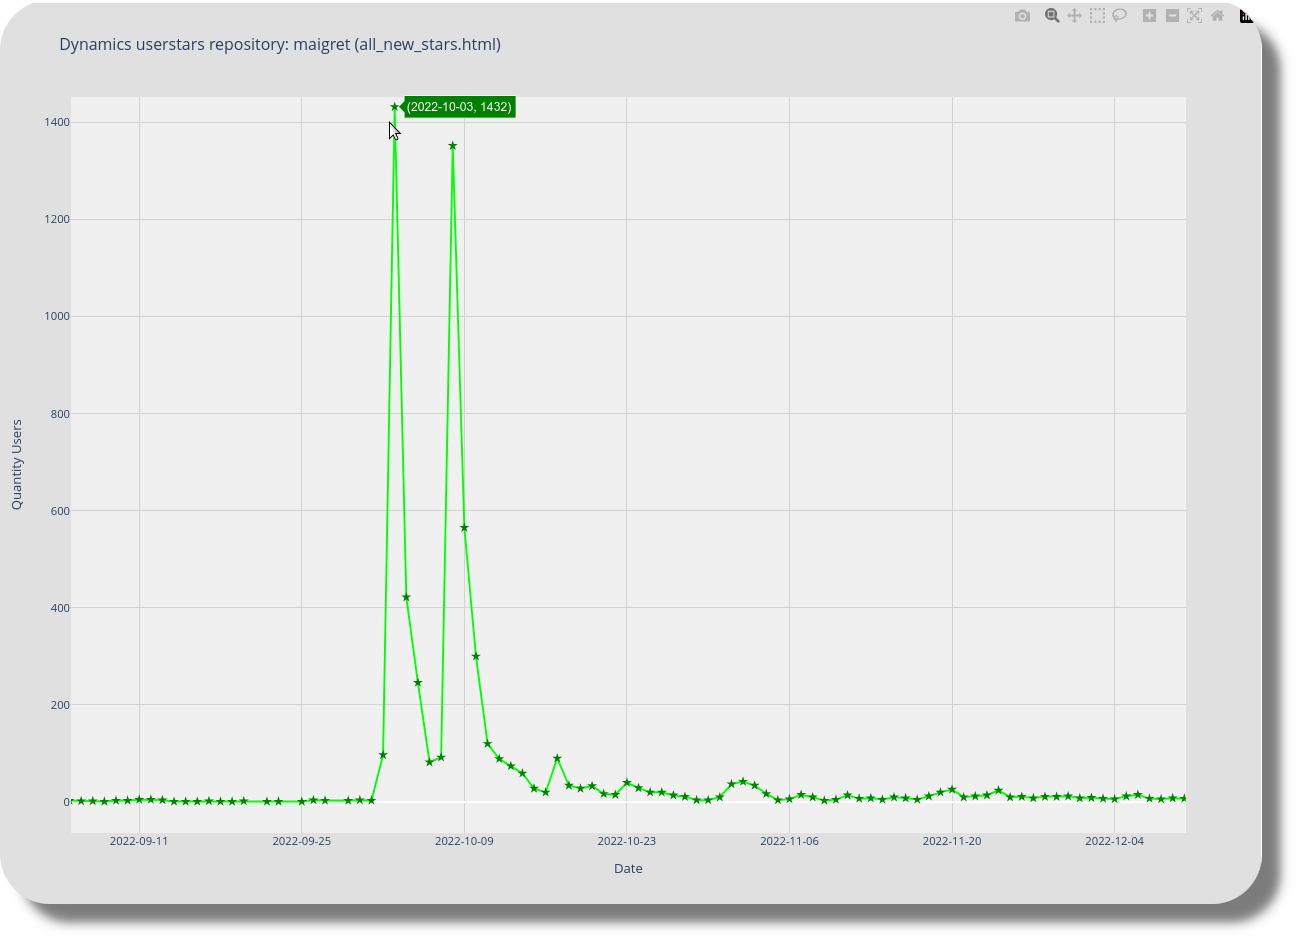
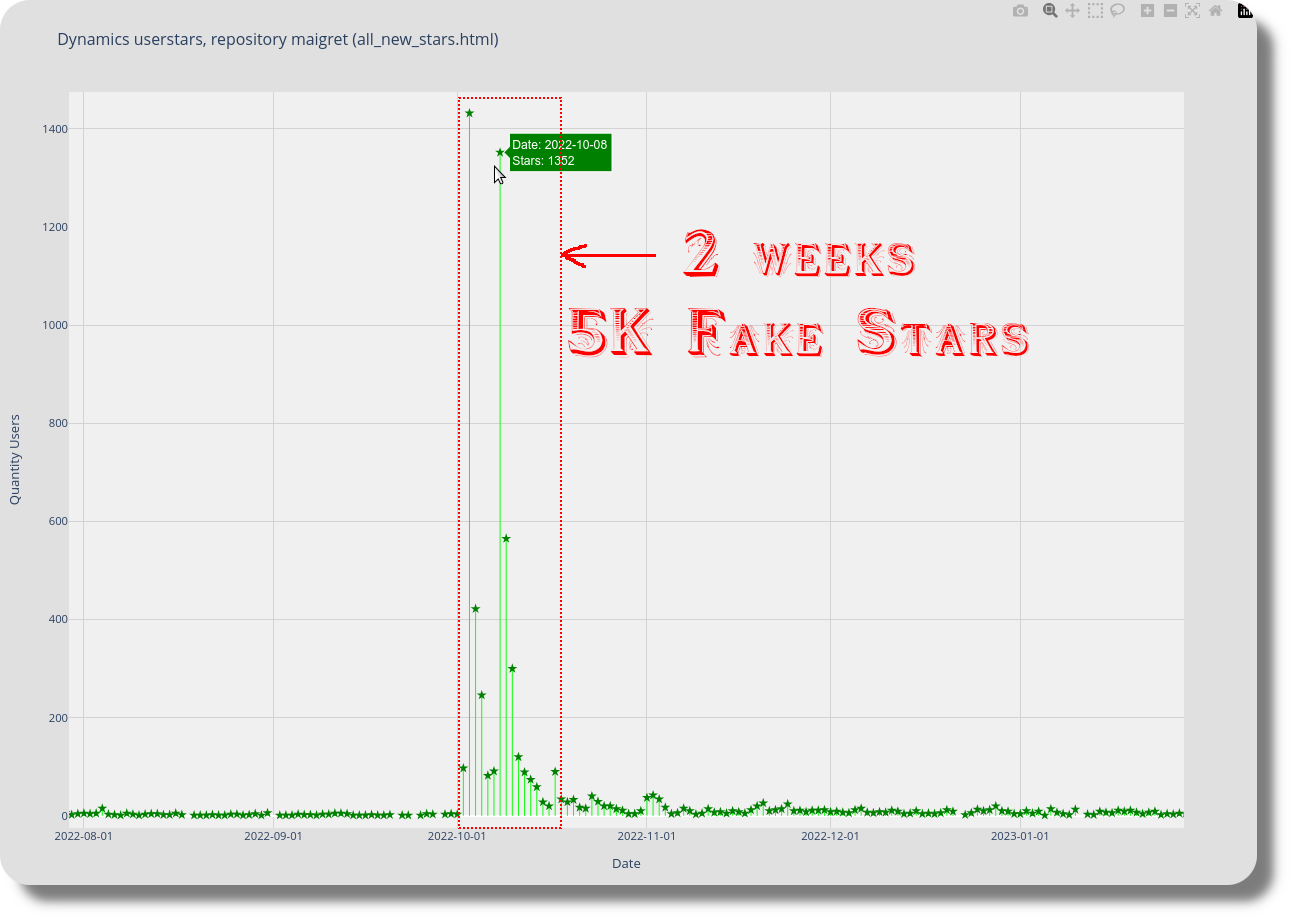
v3.1
See changelog.

diff --git a/shotstars/shotstars.py b/shotstars/shotstars.py
@@ -38,7 +38,7 @@ console.print(r"""[yellow]
 / ___|| |__   ___ | |_  / ___|| |_ __ _ _ __ ___
 \___ \| '_ \ / _ \| __| \___ \| __/ _` | '__/ __|
  ___) | | | | (_) | |_   ___) | || (_| | |  \__ \
-|____/|_| |_|\___/ \__| |____/ \__\__,_|_|  |___/[/yellow]  v3.0, author: https://github.com/snooppr
+|____/|_| |_|\___/ \__| |____/ \__\__,_|_|  |___/[/yellow]  v3.1, author: https://github.com/snooppr
 """)
 
 
@@ -217,17 +217,22 @@ def generate_plots(aggregated_data, source_filename):
             plt_cli.ticks_color('yellow')
 
             if base_filename == 'all_new_stars.html':
-                plt_cli.title("NEW_STARS (real parsing)")
+                plt_cli.title(f"NEW_STARS, '{repo}' (real parsing)")
                 plt_cli.canvas_color('black')
                 plt_cli.axes_color('green')
             elif base_filename == 'all_gone_stars.html':
-                plt_cli.title("GONE_STARS (calculation by algorithms)")
+                plt_cli.title(f"GONE_STARS, '{repo}' (calculations)")
                 plt_cli.canvas_color('black')
                 plt_cli.axes_color('red')
 
             plt_cli.xticks(dates_for_plot)
-            plt_cli.plot(dates_for_plot, counts_for_plot, marker='*')
+            plt_cli.yticks(range(0, max(counts_for_plot) + 1))
+
+            for i in range(len(dates_for_plot)):
+                plt_cli.plot([dates_for_plot[i], dates_for_plot[i]], [0, counts_for_plot[i]], marker='*', color='blue+')
+
             plt_cli.show()
+
             print("\n")
         except Exception:
             console.print(f"[bold red]CLI Graph for {source_filename} — not created[/bold red]")
@@ -246,11 +251,14 @@ def generate_plots(aggregated_data, source_filename):
             line_color = 'red'
             marker_color = '#a73c3c'
 
-        fig.add_trace(plt_html.Scatter(x=dates_for_plot, y=counts_for_plot, mode='lines+markers',
+        fig.add_trace(plt_html.Scatter(x=dates_for_plot, y=counts_for_plot, mode='markers',
                       name=f'Users Count ({base_filename})', marker=dict(color=marker_color, size=8,
-                      symbol='star'), line=dict(color=line_color, width=2)))
+                      symbol='star'), error_y=dict(type='data', arrayminus=counts_for_plot, array=[0] * len(counts_for_plot),
+                                                   visible=True, thickness=1, width=0, color=line_color),
+                      customdata=counts_for_plot, hovertemplate=("Date: %{x}<br>Stars: %{customdata}<extra></extra>")))
 
-        fig.update_layout(title=f"Dynamics userstars repository: {repo} ({base_filename})", xaxis_title="Date", yaxis_title="Quantity Users",
+        fig.update_layout(title=f"Dynamics userstars, repository '{repo}' ({base_filename})",
+                          xaxis_title="Date", yaxis_title="Quantity Users",
                           xaxis=dict(tickformat='%Y-%m-%d', showgrid=True, gridwidth=1, gridcolor='lightgray'),
                           yaxis=dict(showgrid=True, gridwidth=1, gridcolor='lightgray'),
                           plot_bgcolor=plot_bgcolor, paper_bgcolor=paper_bgcolor, legend_title_text='Data source')
@@ -528,7 +536,7 @@ def parsing(diff=False):
     config.read(os.path.join(os.path.dirname(path), "config.ini"))
     token = config.get('Shotstars', 'token')
     if token != "None":
-        head = {'User-Agent': f'Shotstars v3.0', 'Authorization': f'Bearer {token}'}
+        head = {'User-Agent': f'Shotstars v3.1', 'Authorization': f'Bearer {token}'}
     elif token == "None":
         head = {'User-Agent': f'Mozilla/5.0 (X11; Linux x86_64; rv:{random.randint(119, 127)}.0) Gecko/20100101 Firefox/121.0'}
 
@@ -633,9 +641,12 @@ def parsing(diff=False):
     if dif_date > 365:
         if stdev < 4: marketing, marketing_color, fuckstars = "—", "—", "—"
         elif 4 < stdev < 6: marketing, marketing_color, fuckstars = "Low", "[green]Low[/green]", "—"
-        elif 6 < stdev < 9: marketing, marketing_color, fuckstars = "Medium", "[yellow]Medium[/yellow]", "—"
-        elif 9 < stdev < 15: marketing, marketing_color, fuckstars = "High", "[red]High[/red]", "—"
-        elif stdev > 15: marketing, marketing_color, fuckstars = "Hard", "[black on red]Hard[/black on red]", "Yes"
+        elif 6 < stdev < 10: marketing, marketing_color, fuckstars = "Medium", "[yellow]Medium[/yellow]", "—"
+        elif 10 < stdev < 16: marketing, marketing_color, fuckstars = "High", "[red]High[/red]", "—"
+        elif 16 < stdev < 30: marketing, marketing_color, fuckstars = "Hard", "[black on red]Hard[/black on red]", "Yes"
+        elif stdev > 30:
+            marketing, marketing_color = "Hard+", "[black on red]Hard+[/black on red]"
+            fuckstars = "Yes, multiple attempts to promote fake stars"
     else:
         marketing = "The repository is still young, not enough data"
         marketing_color = "The repository is still young, not enough data"
@@ -644,9 +655,9 @@ def parsing(diff=False):
     for date_stars_max, cnt_stars in Maximum_stars_in_date.most_common(1):
         console.print(f"[cyan]Peak-stars-in-date::[/cyan] {cnt_stars} stars / {date_stars_max}", highlight=False)
 
-    console.print("[cyan]The trend of adding stars::[/cyan]", trend, highlight=False)
+    console.print("[cyan]The-trend-of-adding-stars::[/cyan]", trend, highlight=False)
     console.print(f"[cyan]Aggressive-marketing::[/cyan] {marketing_color}", highlight=False)
-    console.print(f"[cyan]Fuckstars::[/cyan] {fuckstars}\n", highlight=False)
+    console.print(f"[cyan]Fake-stars::[/cyan] {fuckstars}\n", highlight=False)
 
 # Сравнение списков пользователей после временных сканирований для обнаружения в них изменений.
     with open(f"{path}/new.txt", "w", encoding="utf-8") as f_w:
@@ -740,11 +751,11 @@ transition: transform 0.15s}
                                 f"<small><small>\n💾 Size:: ~ {size_repo} Mb<br>\n" + \
                                 f"✨ GitHub-rating:: {stars} stars<br>\n" + \
                                 f"🌟 Peak-stars-in-date:: {cnt_stars} / {date_stars_max}<br>\n" + \
-                                f"📈 The trend of adding stars: {trend}<br>\n" + \
+                                f"📈 The-trend-of-adding-stars: {trend}<br>\n" + \
                                 f"⏳ Date-of-creation:: {created_at}<br>\n" + \
                                 f"⌛ Date-update (including hidden update):: {push_}<br>\n" + \
                                 f"📣 Aggressive-marketing:: {marketing}<br>\n" + \
-                                f"🎃 Fuckstars:: {fuckstars}<br>\n" + \
+                                f"🎃 Fake-stars:: {fuckstars}<br>\n" + \
                                 f"📖 Repository-description:: {title_repo}</small></small></span><br>\n" + \
                                 "<br>\n<span class='donate' style='color: white; text-shadow: 0px 0px 20px #333333'>" + \
                                 "<small><small>╭📅 Changes over the past " + \
